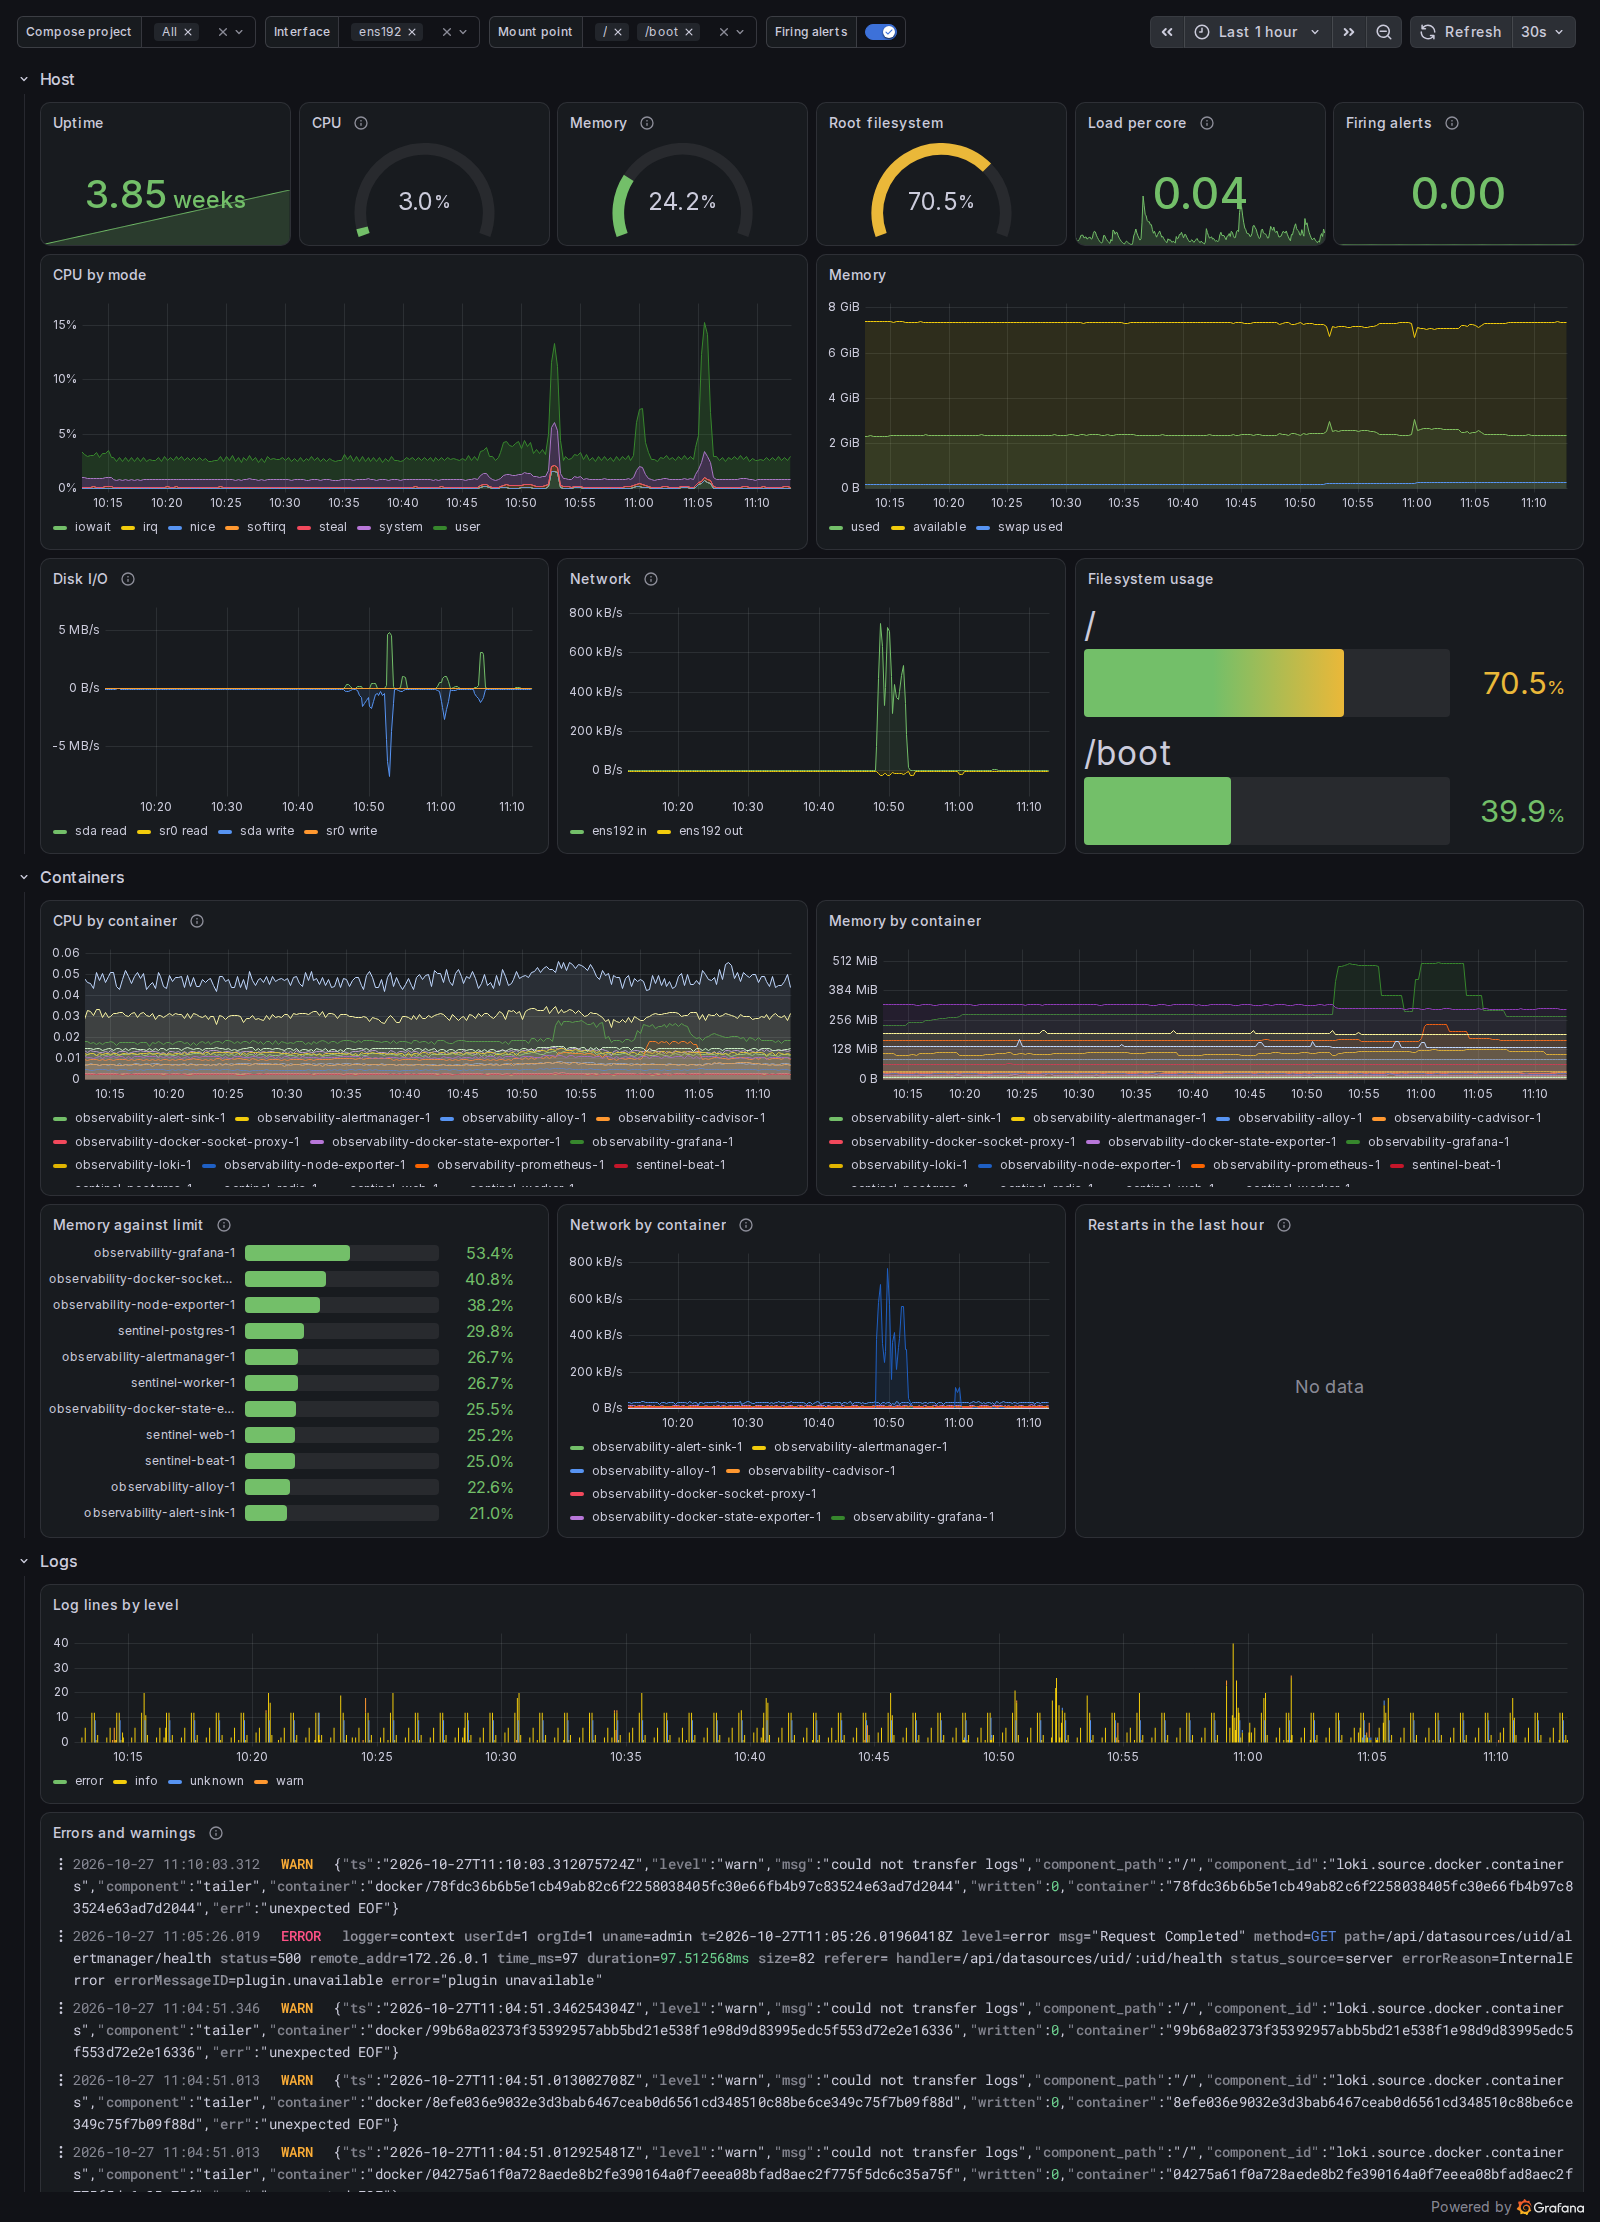
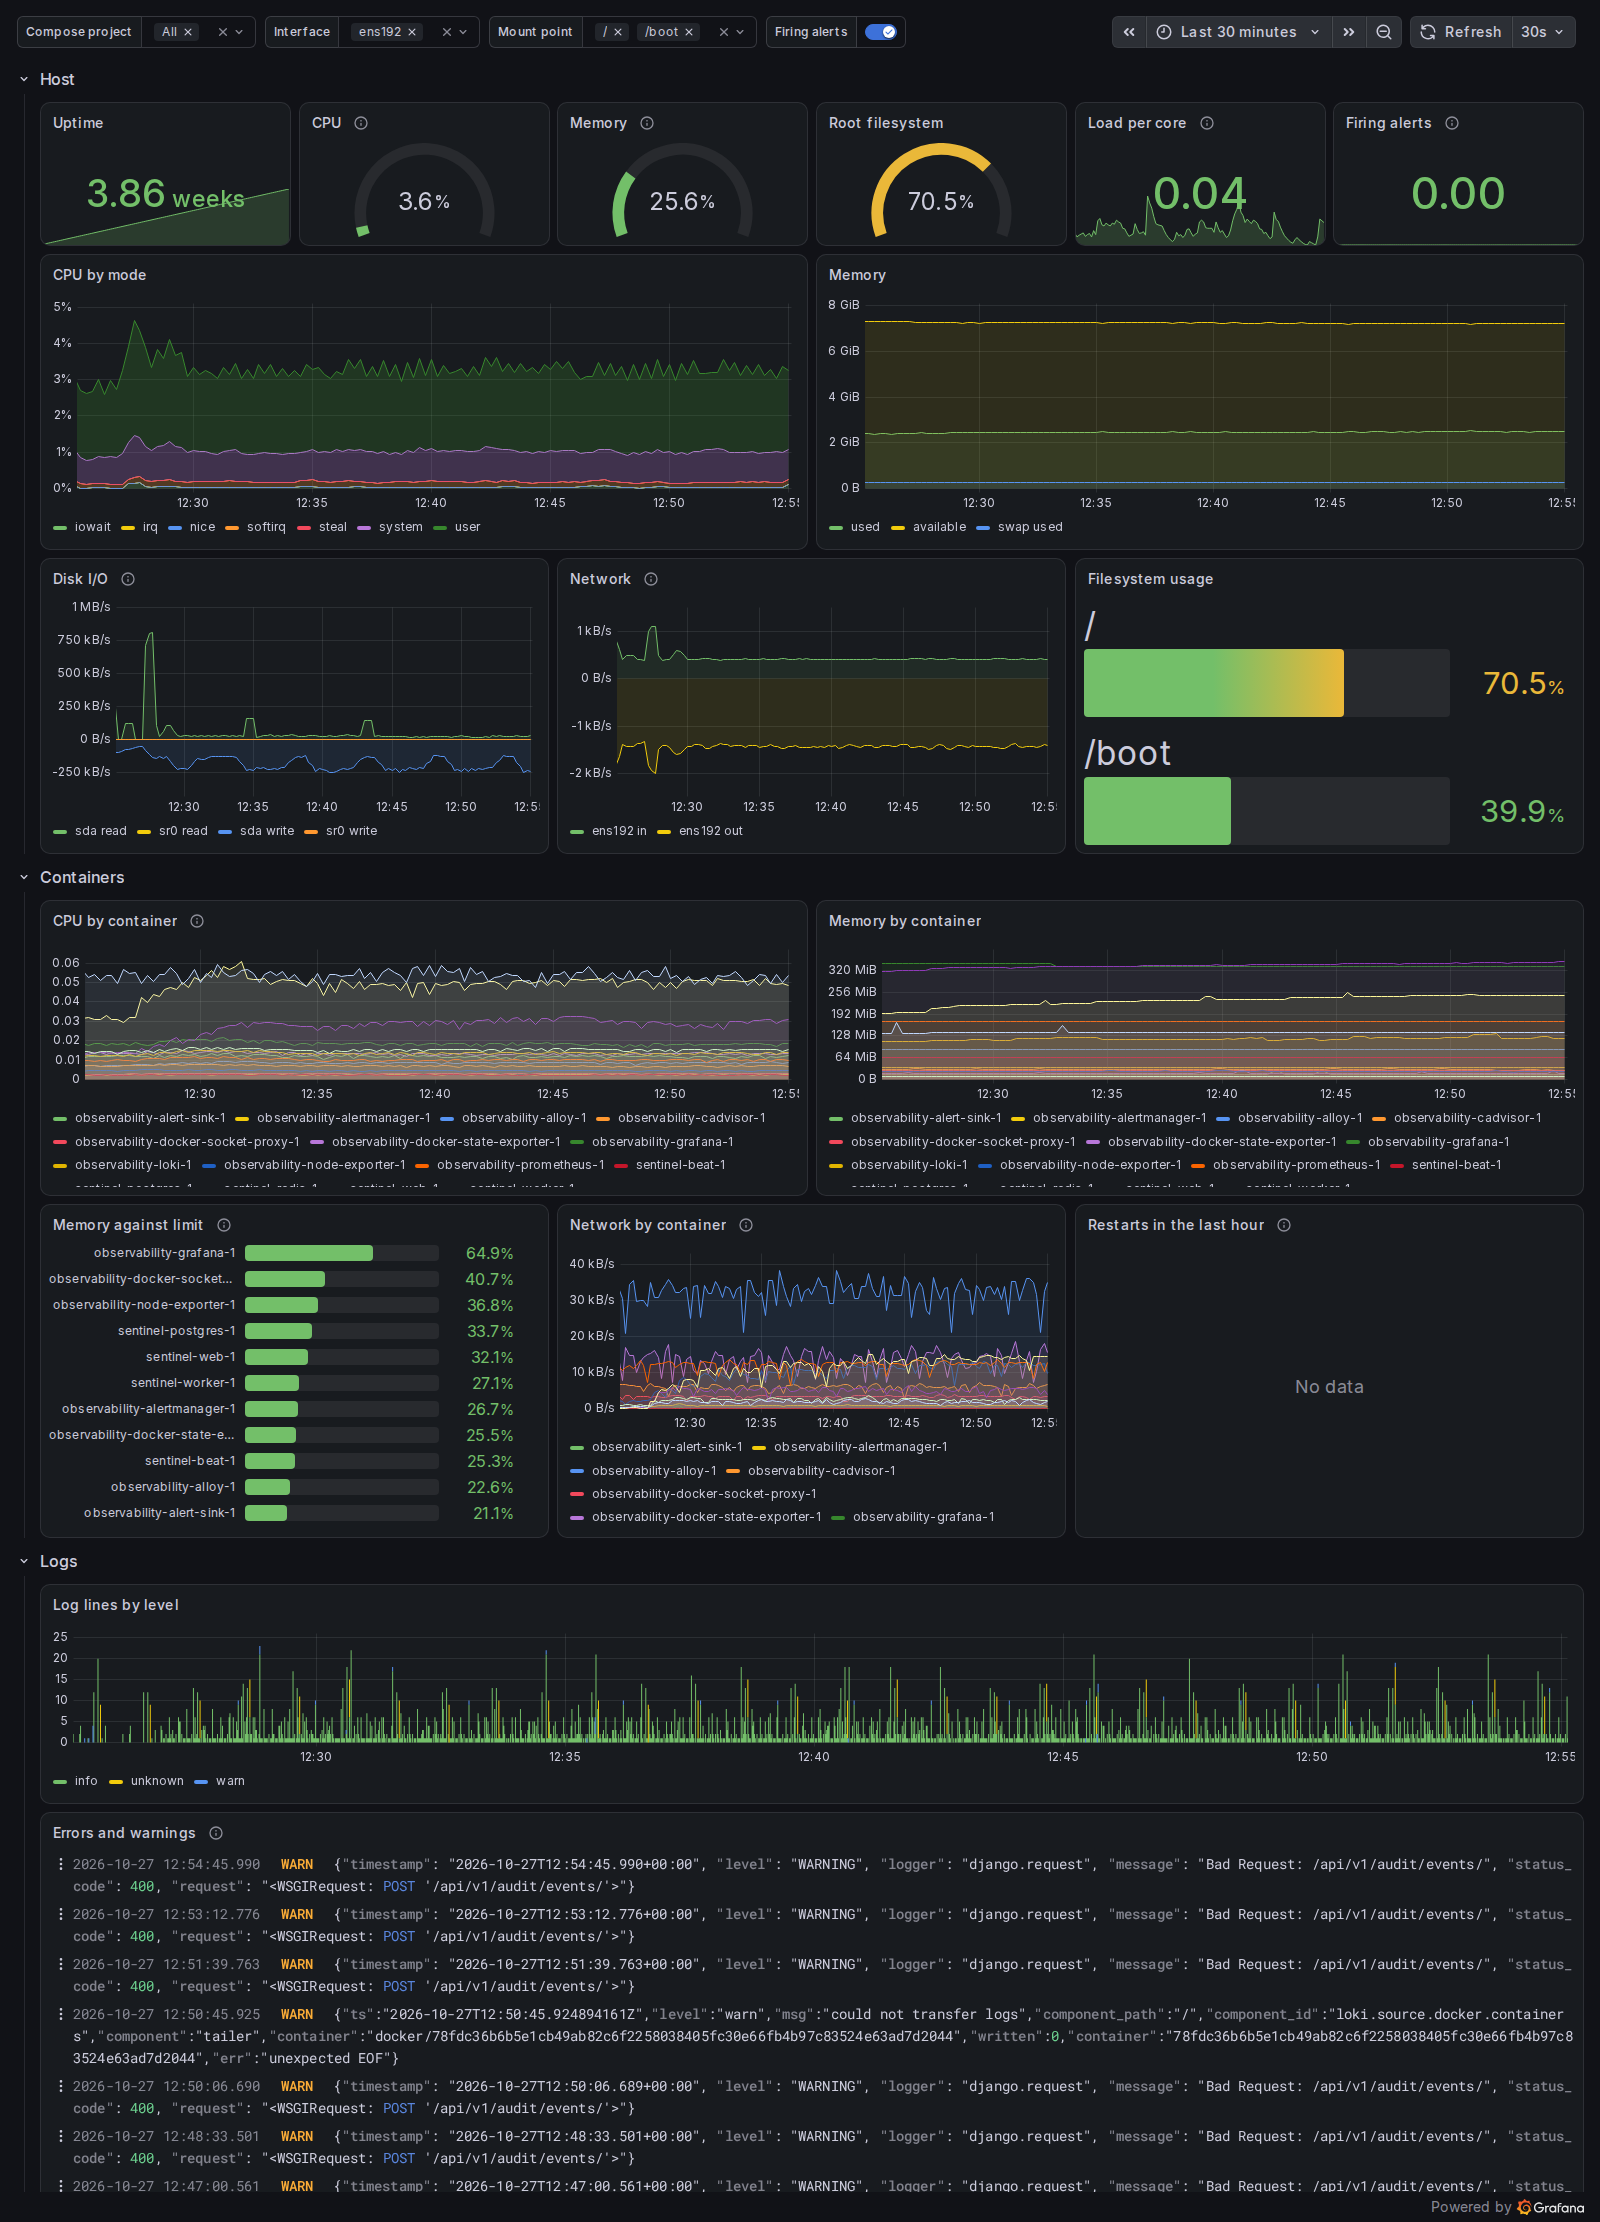
docs: refresh screenshots with live Sentinel traffic
The Sentinel screenshot now shows a demo producer's real traffic (single
and bulk ingestion with some duplicates and invalid items, plus queries)
instead of empty ingestion and log panels. All three screenshots cover the
same half hour.

* Responses by status class: classes without traffic are no longer drawn.
  A zero 4xx series stacked on top read as if it carried the whole rate.
* Slowest views: views without requests in the window are left out.
* Final webhook failures: the description says it is a running total, and
  the README explains the lab's single failure (an end-to-end check whose
  endpoint was disabled before the delivery ran).

diff --git a/tools/dashboards/build.py b/tools/dashboards/build.py
@@ -525,8 +525,10 @@ def sentinel() -> dict[str, Any]:
         timeseries(
             "Responses by status class",
             [
+                # "> 0": a class without traffic would otherwise be stacked as a line on
+                # top of the others and read as if it carried their whole rate.
                 prom(
-                    f'sum by (class) (label_replace(rate(django_http_responses_total_by_status_total{{{job}}}[$__rate_interval]), "class", "${{1}}xx", "status", "([0-9]).."))',
+                    f'sum by (class) (label_replace(rate(django_http_responses_total_by_status_total{{{job}}}[$__rate_interval]), "class", "${{1}}xx", "status", "([0-9])..")) > 0',
                     "{{class}}",
                 )
             ],
@@ -553,7 +555,8 @@ def sentinel() -> dict[str, Any]:
     lay.add(
         timeseries(
             "Slowest views (p95)",
-            [prom(f"topk(5, histogram_quantile(0.95, sum by (view, le) (rate({bucket}[$__rate_interval]))))", "{{view}}")],
+            # "> 0" drops views without requests in the window (their quantile is NaN).
+            [prom(f"topk(5, histogram_quantile(0.95, sum by (view, le) (rate({bucket}[$__rate_interval]))) > 0)", "{{view}}")],
             "s",
         ),
         12,
@@ -587,7 +590,10 @@ def sentinel() -> dict[str, Any]:
             "Final webhook failures",
             [prom(f'sentinel_webhook_deliveries{{{job}, status=~"failed|exhausted"}}', "{{status}}")],
             "short",
-            desc="Total deliveries that failed permanently or exhausted their retries.",
+            desc=(
+                "Deliveries in a final failed state, counted from Sentinel's database since it was created: "
+                "a running total, not a rate. A step up is a new failure; the delivery's last_error says why."
+            ),
         ),
         8,
         8,

diff --git a/README.md b/README.md
@@ -118,14 +118,20 @@ errors or if the JSON differs from the generator.
 | Sentinel IAM & Audit Service | Request rate, 5xx ratio, latency percentiles and slowest views, audit ingestion by outcome, webhook outbox and deliveries, container CPU, logs filtered by level |
 | Observability stack health | Targets, firing alerts, series and samples, log throughput (sent, dropped, filtered), notifications, rule evaluation time, stack memory |
 
-Captured with `make screenshots` on the lab host, an hour of normal operation after the
-fault-injection drills; the host panels are narrowed to the main network interface and
-the root and boot filesystems with the dashboard's own variables:
+Captured with `make screenshots` on the lab host, half an hour of normal operation after
+the fault-injection drills, while a demo producer sent about 4 audit events per second to
+Sentinel (single and bulk ingestion with some duplicates and invalid items, plus queries).
+The host panels are narrowed to the main network interface and the root and boot
+filesystems with the dashboard's own variables:
 
 ![Linux & Docker overview dashboard in Grafana's dark theme](docs/images/linux-docker-overview.png)
 
 More: [Sentinel IAM & Audit Service](docs/images/sentinel-service.png),
-[Observability stack health](docs/images/observability-stack.png).
+[Observability stack health](docs/images/observability-stack.png). The Sentinel dashboard's
+single final webhook failure is real and expected: Sentinel's own end-to-end check on
+2026-10-26 subscribed a test endpoint and disabled it before the worker picked up the
+delivery, so Sentinel recorded it as failed (`endpoint_disabled`) instead of sending it.
+The panel shows a running total, so that one failure stays visible.
 
 ## Measured, not estimated
 
